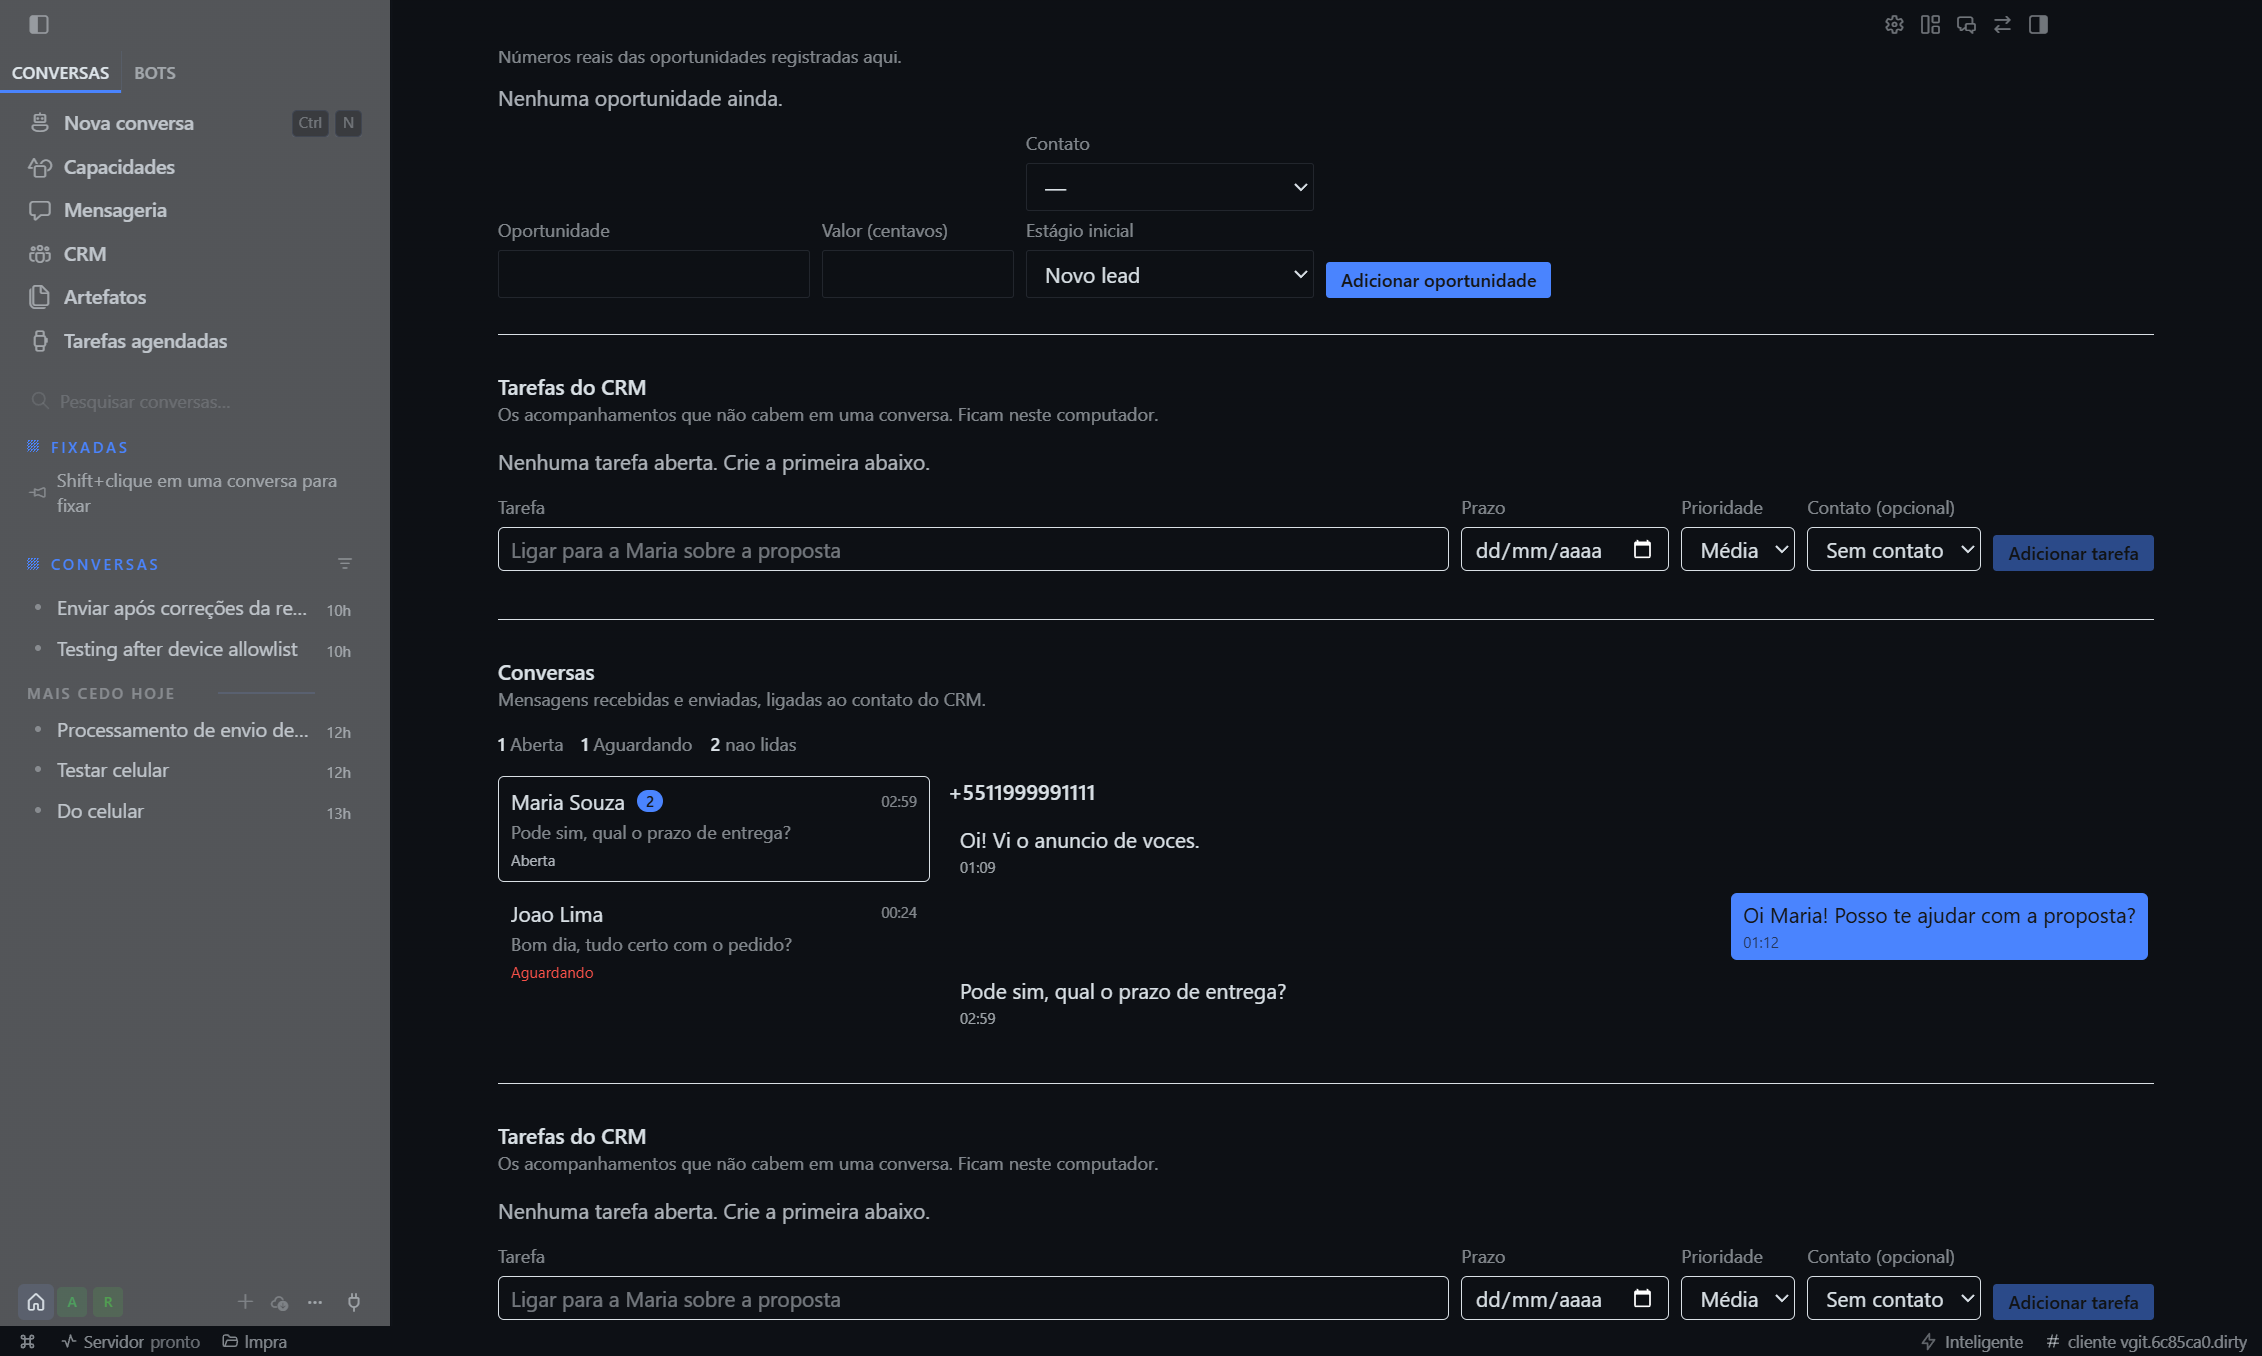
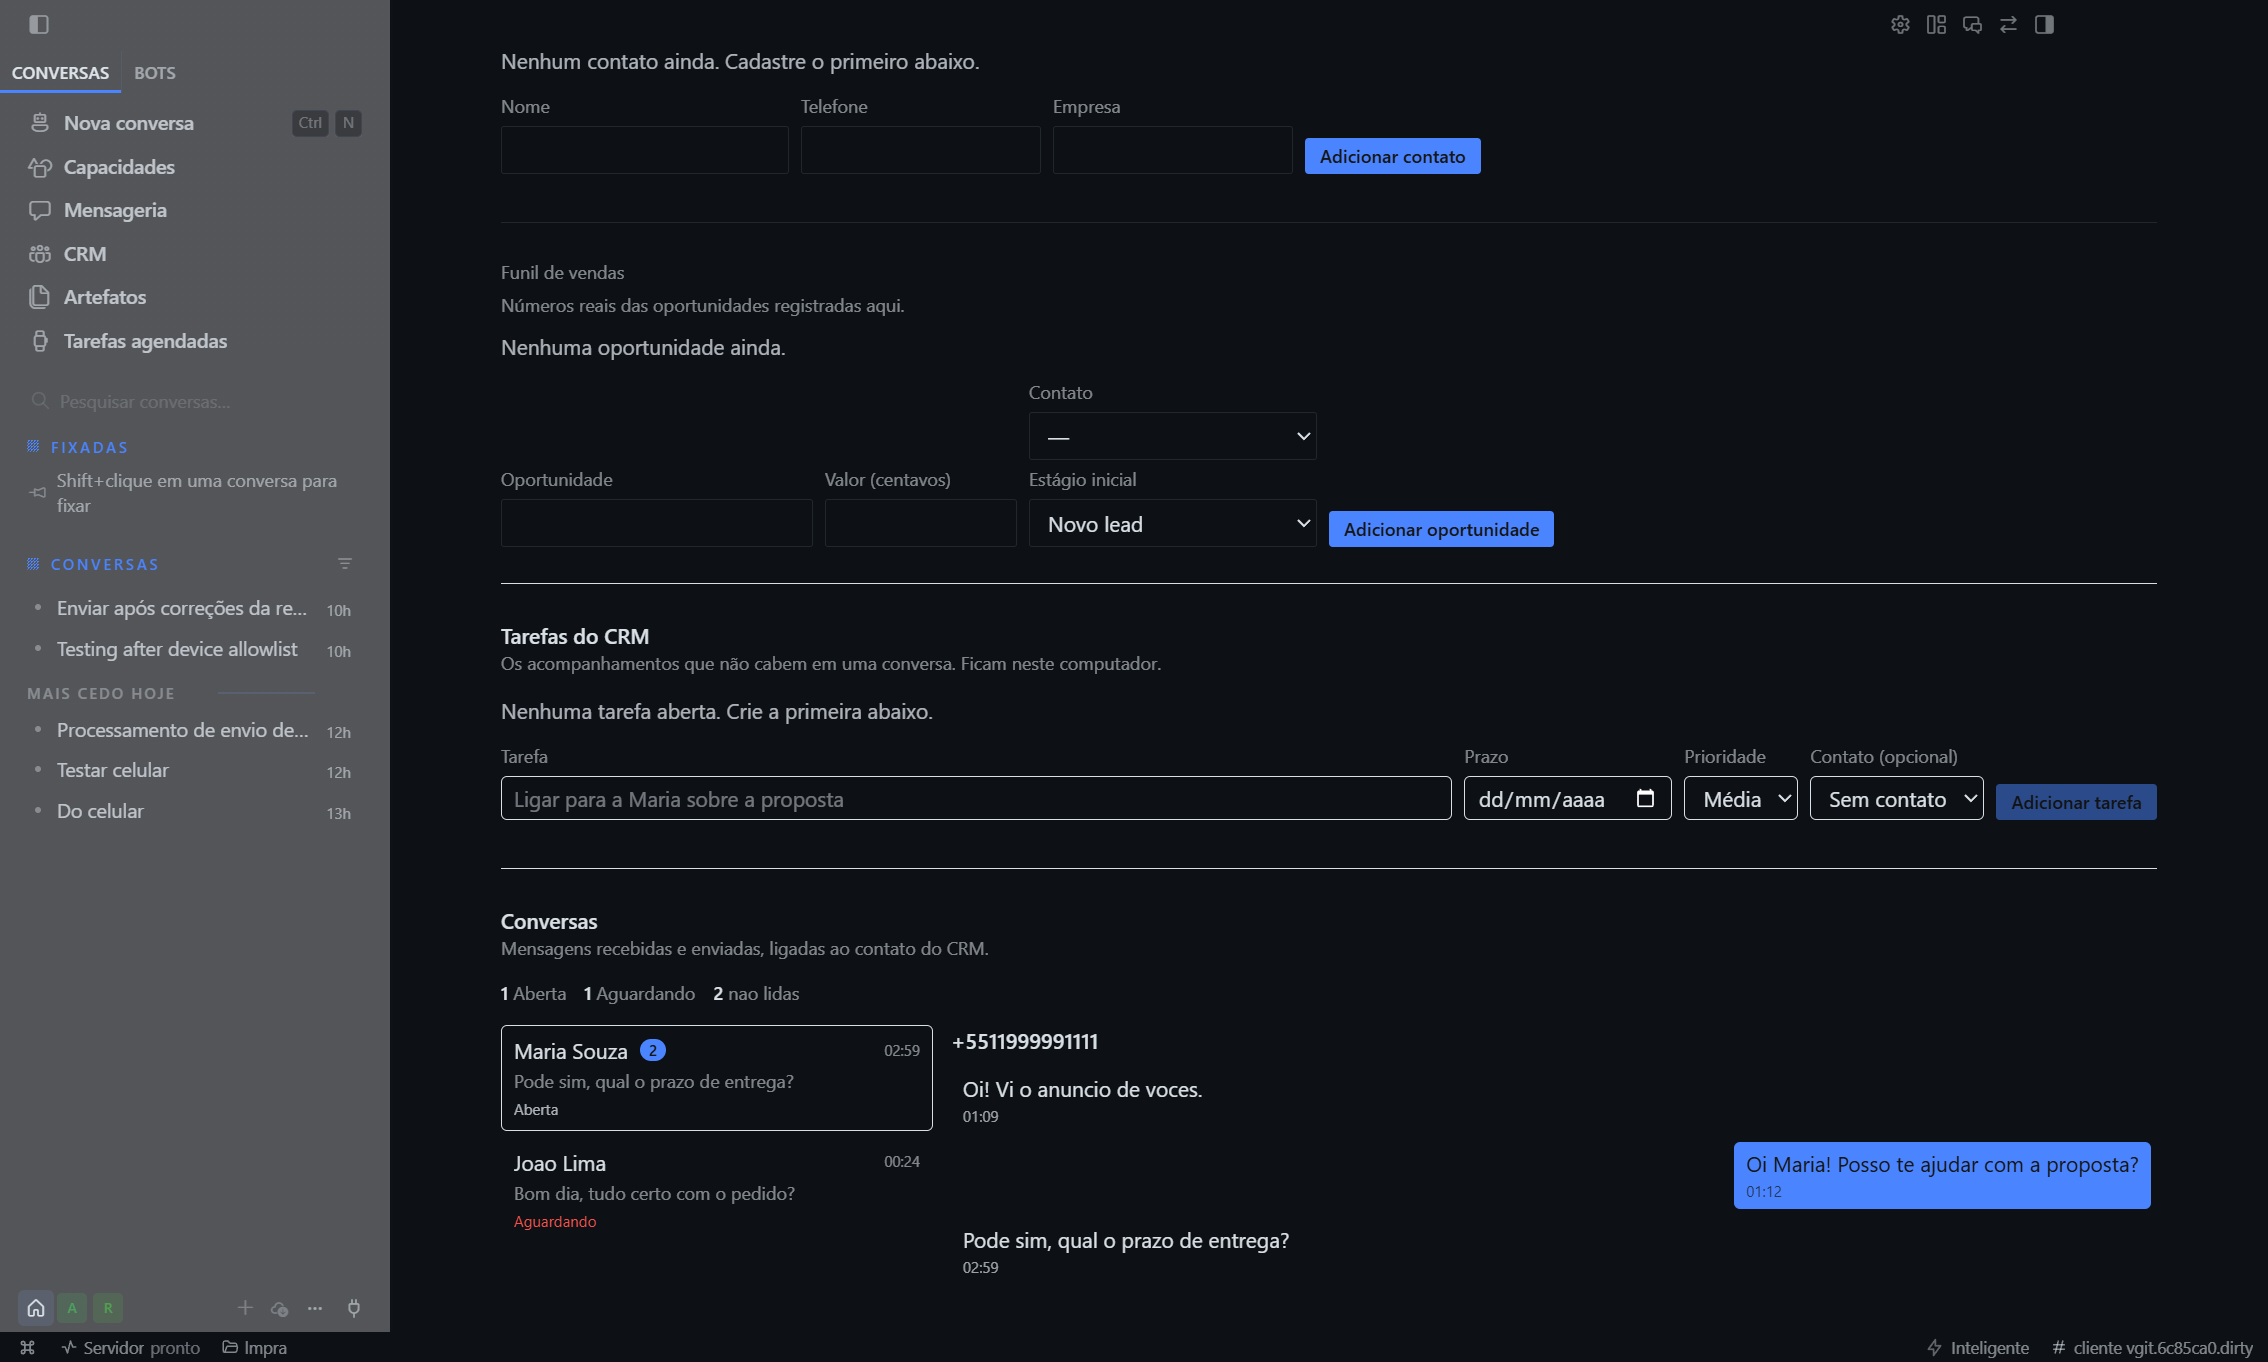
fix(crm): remove bloco "Tarefas do CRM" duplicado na pagina /crm
A duplicacao que eu havia registrado como pendencia alheia era simples: CrmContactsSection ja monta
<CrmTasksSection /> internamente, e o CrmView montava de novo. Removido o segundo.

Medido no binario: { ocorrenciasTarefas: 1, ocorrenciasConversas: 1 } — antes eram 2 de tarefas.

Era um defeito visivel na tela principal do CRM. Ficou duas rodadas no relatorio antes de eu corrigir; registrar
nao substitui consertar quando o custo e de uma linha.

Evidencia atualizada (sem duplicata, com rotulos): docs/b3po/evidence/crm-conversas-pt.png.

MEDIDO: tsc limpo; gate 14 ok; MSIX reconstruido.

diff --git a/apps/desktop/src/app/crm/index.tsx b/apps/desktop/src/app/crm/index.tsx
@@ -1,6 +1,5 @@
 import { CrmContactsSection } from '@/app/settings/crm-contacts-section'
 import { CrmConversationsSection } from '@/app/settings/crm-conversations-section'
-import { CrmTasksSection } from '@/app/settings/crm-tasks-section'
 
 import { CrmOverview } from './crm-overview'
 
@@ -27,7 +26,6 @@ export function CrmView() {
 
       <CrmContactsSection showOpenLink={false} />
         <CrmConversationsSection />
-      <CrmTasksSection />
     </div>
   )
 }

diff --git a/docs/b3po/ARTIFACT-MANIFEST.md b/docs/b3po/ARTIFACT-MANIFEST.md
@@ -3,12 +3,12 @@
 Manifesto dos artefatos **deste** build. Manifesto com dado velho engana mais do que ajuda: os
 hashes abaixo foram calculados nesta máquina a partir dos arquivos listados; nada é estimado.
 
-commit `bb3a49a1a7` · branch `b3po-brand` · 239 commits sobre `main` · gerado em 2026-11-04 06:15 UTC
+commit `2209b394f9` · branch `b3po-brand` · 240 commits sobre `main` · gerado em 2026-11-04 06:20 UTC
 
 | Plataforma | Formato | Arquivo | Tamanho | SHA-256 | Construído |
 |---|---|---|---|---|---|
[7 lines of base64/hex data omitted]

diff --git a/docs/b3po/WHATSAPP-CRM-REPORT.md b/docs/b3po/WHATSAPP-CRM-REPORT.md
@@ -631,3 +631,16 @@ imagem.
 
 **Pendencia visivel e nao minha:** a pagina `/crm` mostra "Tarefas do CRM" **duas vezes** (bloco duplicado, anterior a
 este trabalho). Fica registrado em vez de ignorado.
+
+
+## "Tarefas do CRM" duplicado: corrigido (rodada 177)
+
+A duplicacao que eu havia registrado como pendencia alheia era simples: `CrmContactsSection` ja monta
+`<CrmTasksSection />` internamente, e o `CrmView` montava de novo. Removido o segundo; a pagina passa a ter **uma**
+ocorrencia de "Tarefas do CRM" e **uma** de "Conversas" (medido no binario: `{ocorrenciasTarefas: 1,
+ocorrenciasConversas: 1}`).
+
+Era um defeito visivel na tela principal do CRM — qualquer pessoa notaria. Ficou duas rodadas no relatorio antes de eu
+corrigir; a licao e que registrar nao substitui consertar quando o custo e de uma linha.
+
+Evidencia atualizada: `docs/b3po/evidence/crm-conversas-pt.png` (sem duplicata, com os rotulos novos).
